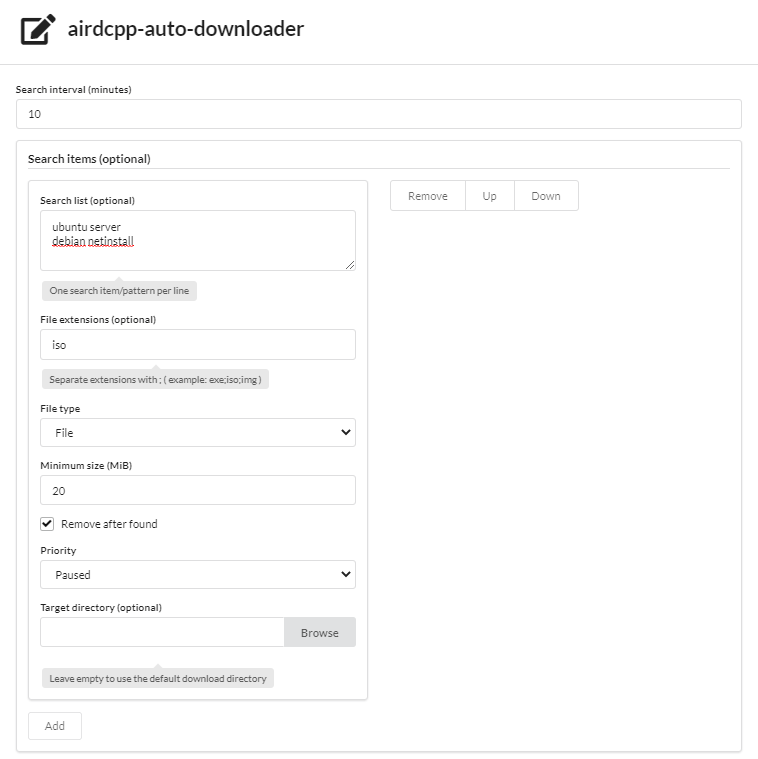
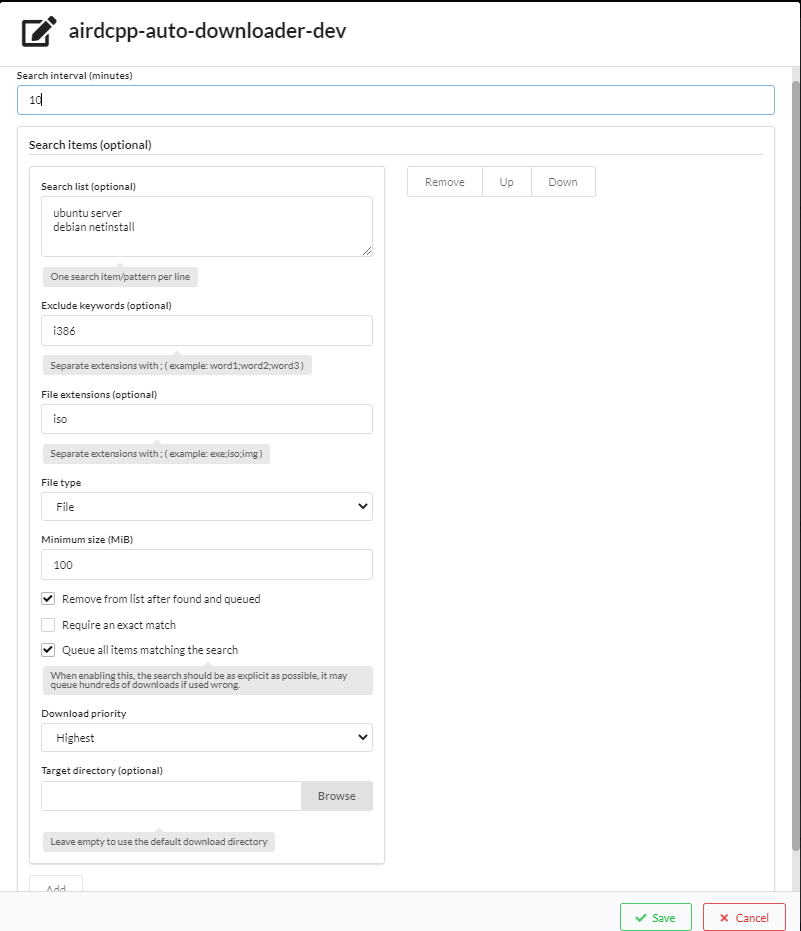
update dependencies, CHANGELOG, README and settings screenshot

diff --git a/README.md b/README.md
@@ -2,12 +2,23 @@
 
 Extension to add search terms that will be searched in intervals and downloaded when found.
 
+## Known issues
+Changing the search interval requires stopping and starting the extension
+
 ## Features
 
 * Configure search interval in minutes
 * Provide multiple search terms as a list, one search term per line
-* Define minimum size, file type, file extensions and download directory
-* Remove search term when found (optional)
+* Options for:
+  * minimum size
+  * file type
+  * file extensions
+  * download directory
+  * exclude keywords
+  * priority
+  * require exact match
+  * allow queueing all items from search result
+  * remove search term when found
 
 ## Screenshot
 

diff --git a/CHANGELOG.md b/CHANGELOG.md
@@ -1,5 +1,11 @@
 # Changelog
 
+## [v1.0.0-beta7](https://github.com/peps1/airdcpp-auto-downloader/tree/v1.0.0-beta.7) (2021-08-15)
+[Full git log](https://github.com/peps1/airdcpp-auto-downloader/compare/v1.0.0-beta.6...v1.0.0-beta.7)
+
+### Fix
+* Priority IDs [#13](https://github.com/peps1/airdcpp-auto-downloader/issues/13)
+
 ## [v1.0.0-beta6](https://github.com/peps1/airdcpp-auto-downloader/tree/v1.0.0-beta.6) (2021-08-15)
 [Full git log](https://github.com/peps1/airdcpp-auto-downloader/compare/v1.0.0-beta.4...v1.0.0-beta.6)
 
